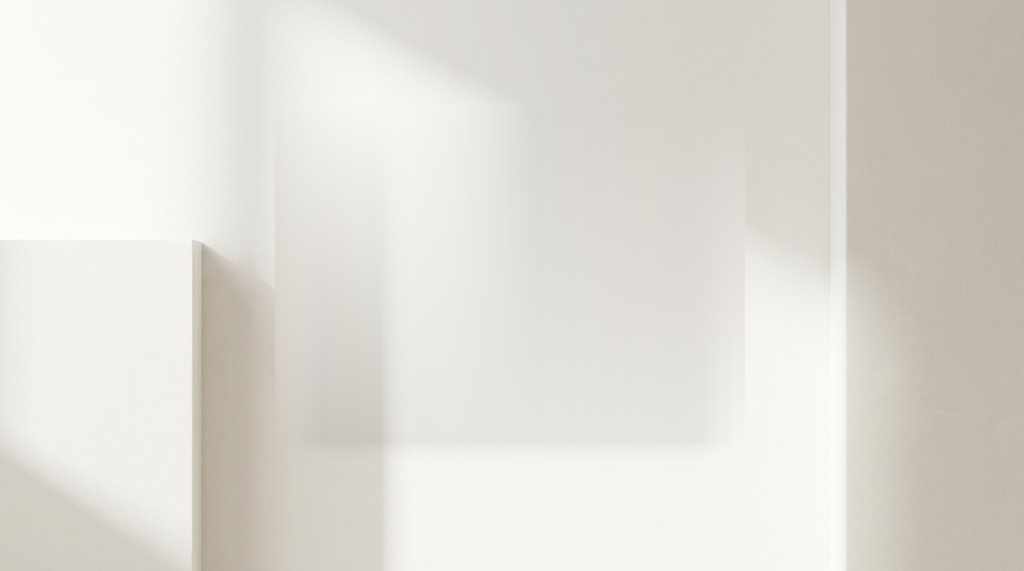
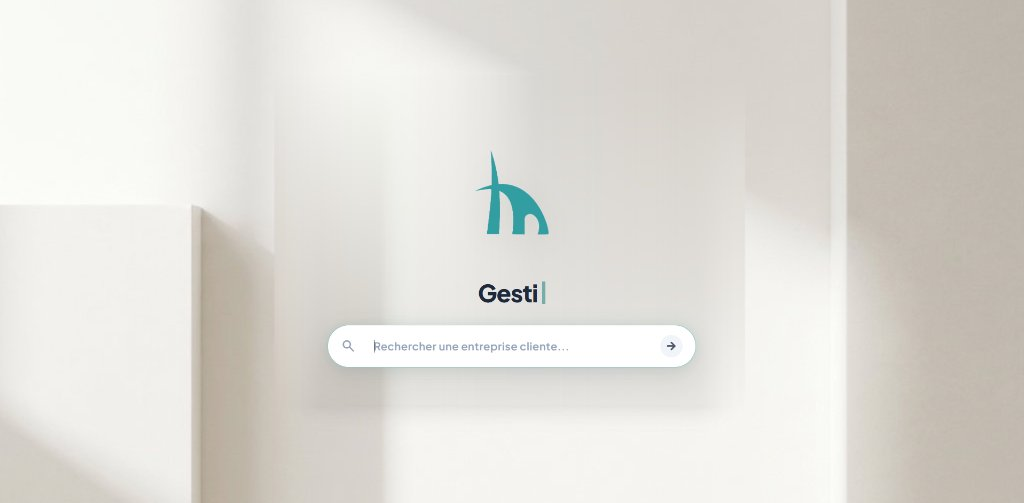
Application de la nouvelle image architecturale en arriere-plan (background) sur dashboard et portail

diff --git a/chat_grow/templates/dashboard.html b/chat_grow/templates/dashboard.html
@@ -71,8 +71,8 @@
         }
 
         .ambient-mint-gradient {
-            background-color: #f2f1ed !important;
-            background: #f2f1ed !important;
+            background-color: transparent !important;
+            background: transparent !important;
         }
 
         ::-webkit-scrollbar {
@@ -7370,7 +7370,7 @@
             height: 100dvh;
             z-index: 1500;
             background-color: #f2f1ed;
-            background-image: url('/static/portal_bg_clean.jpg');
+            background-image: url('/static/portal_bg_gesti.jpg');
             background-size: cover;
             background-position: center;
             background-repeat: no-repeat;
@@ -7493,7 +7493,7 @@
 </style>
 </head>
 
-<body class="bg-[#f2f1ed] text-slate-900 antialiased min-h-screen" style="background-color: #f2f1ed;">
+<body class="text-slate-900 antialiased min-h-screen" style="background-color: #f2f1ed; background-image: url('/static/portal_bg_gesti.jpg'); background-size: cover; background-position: center top; background-attachment: fixed; background-repeat: no-repeat;">
 
     <!-- ========================================================================= -->
     <!-- PORTAIL ACCUEIL EXPERT-COMPTABLE (STYLE SCANDINAVE ARCHITECTURAL ÉPURÉ)  -->

diff --git a/chat_grow/templates/agence.html b/chat_grow/templates/agence.html
@@ -31,7 +31,12 @@
         }
 
         body {
-            background-color: #f8fafc;
+            background-color: #f2f1ed;
+            background-image: url('/static/portal_bg_gesti.jpg');
+            background-size: cover;
+            background-position: center top;
+            background-attachment: fixed;
+            background-repeat: no-repeat;
             color: #0f172a;
             min-height: 100vh;
             display: flex;
